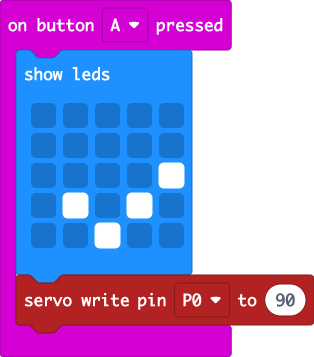
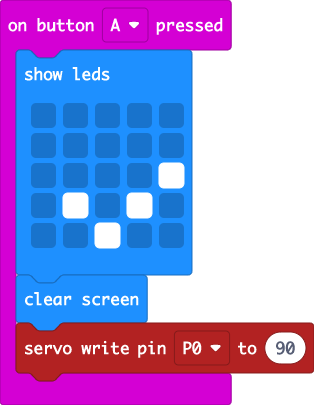
Update main.blocks, main.ts

Changed region(s): [[0.0287, 0.0308, 1.0, 0.9552], [0.1146, 0.0308, 0.3153, 0.0924], [0.0287, 0.0308, 0.086, 0.0924]]

diff --git a/main.ts b/main.ts
@@ -6,5 +6,6 @@ input.onButtonPressed(Button.A, function () {
         . # . # .
         . . # . .
         `)
+    basic.clearScreen()
     pins.servoWritePin(AnalogPin.P0, 90)
 })
